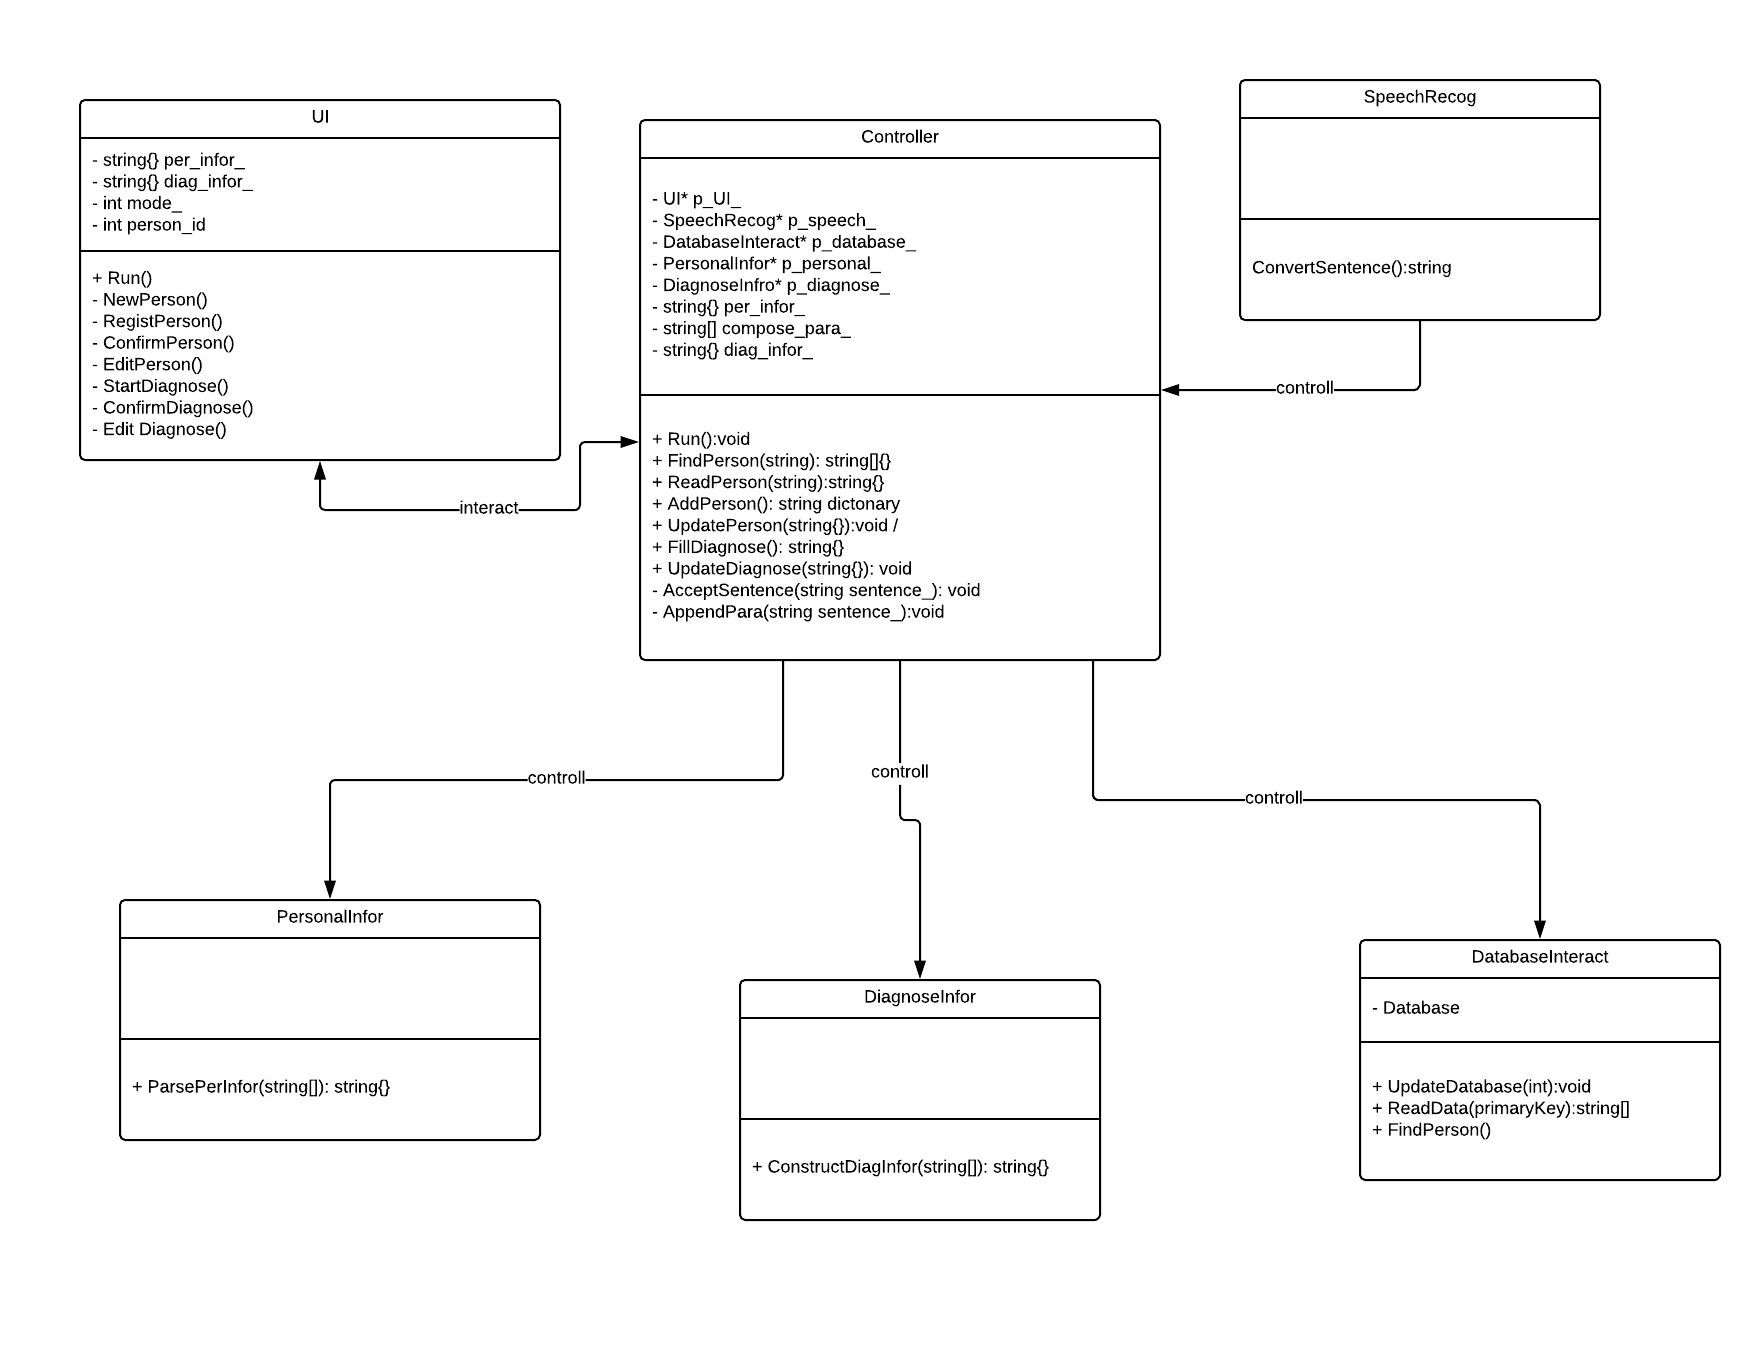
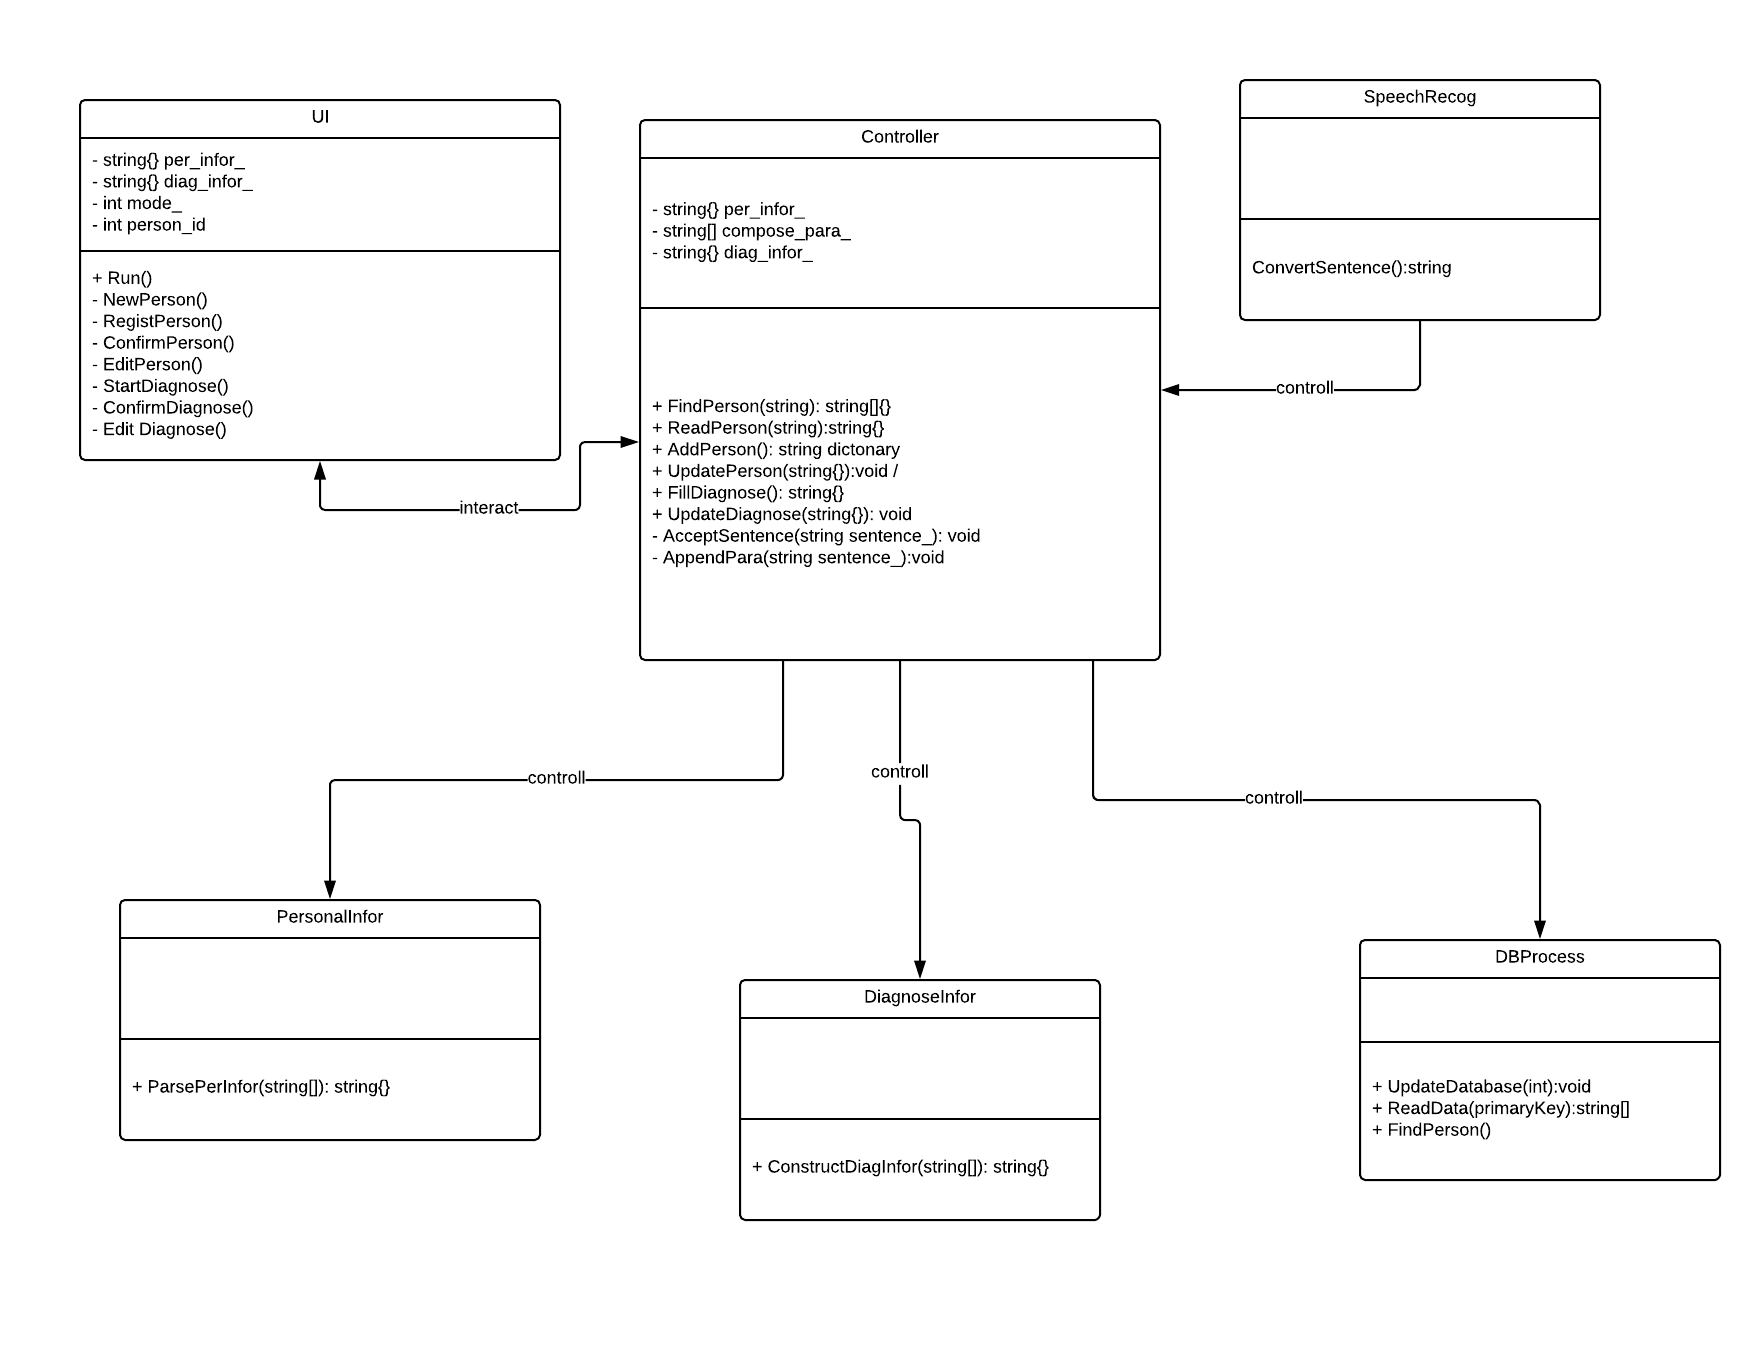
updating graph

Changed region(s): [[0.375, 0.1235, 0.5625, 0.4632], [0.8438, 0.6794, 0.9062, 0.7103]]

diff --git a/autoEMR/autoEMR.py b/autoEMR/autoEMR.py
@@ -48,7 +48,7 @@ class Controller:
 		# A dictionary like {'first_name':'Mary','last_name':'Sue'} is returned.
 		# Keep it and return it to UI for display.
 		paragraph = make_para()
-		p_info = pick_p_info()
+		p_info = pick_p_info(paragraph)
 		return p_info
 
 	def confirmed_p(p_id,confirmed_info):
@@ -65,7 +65,7 @@ class Controller:
 		# Keep it and return it to UI for display.
 		# Diagnose message parse is difficult, do this part in second iteration.
 		paragraph = make_para()
-		d_mess = pick_d_mess()
+		d_mess = pick_d_mess(paragraph)
 		return d_mess
 
 	def confirmed_d(p_id,confirmed_info):
